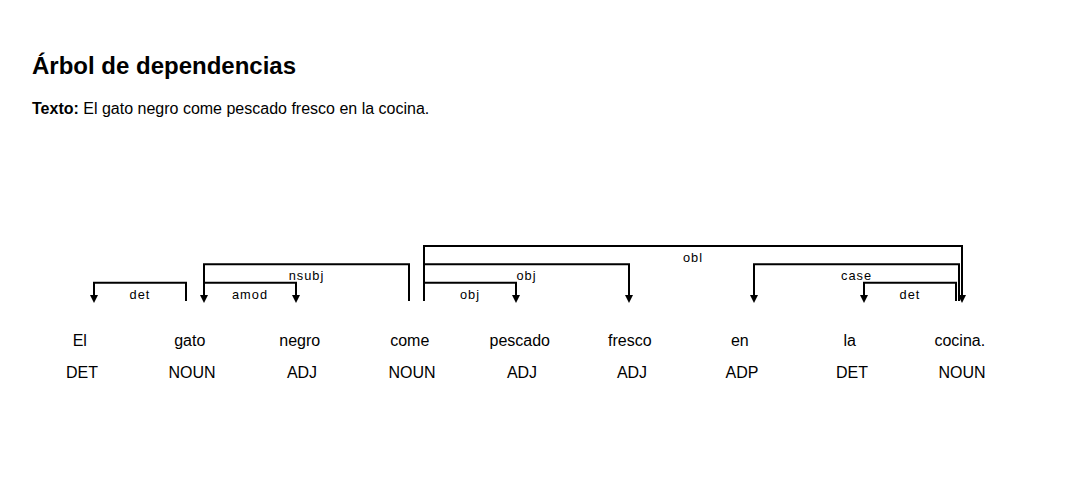
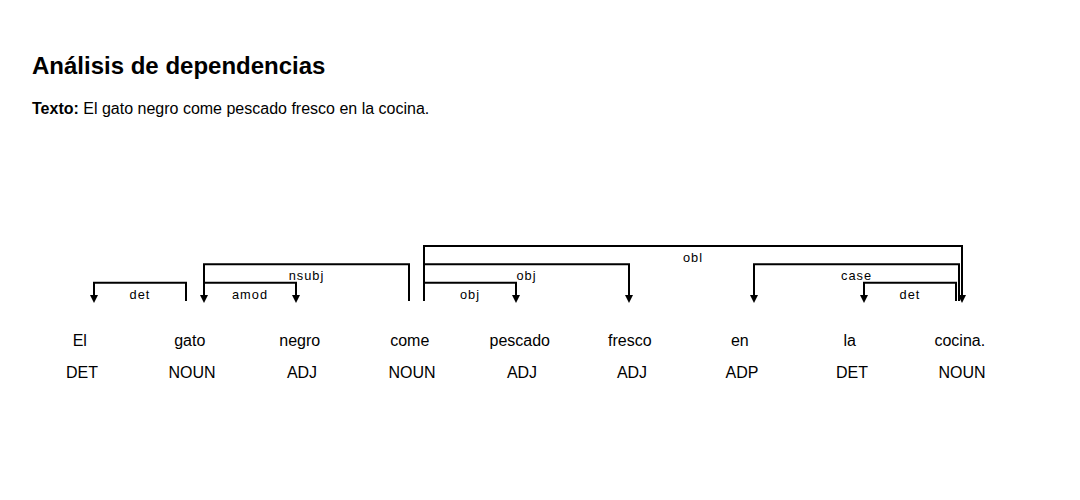
Reescribir README al contrato nuevo: rutas, estructura de carpetas, declaración de IA y capturas regeneradas

Changed region(s): [[0.0306, 0.09, 0.3056, 0.15]]

diff --git a/README.md b/README.md
@@ -1,10 +1,8 @@
-# NLP Pipeline API
+# NLP Text Processing API
 
 ![CI](https://github.com/Julian-Rincon/nlp-pipeline-api/actions/workflows/ci.yml/badge.svg)
 
-API de procesamiento de lenguaje natural construida con **spaCy** y **FastAPI**, desplegada de dos formas distintas en **AWS** sobre exactamente el mismo pipeline: preprocesamiento → extracción de características → análisis (POS/NER/dependencias) → salida.
-
-Proyecto académico — Procesamiento de Lenguaje Natural (PLN), Universidad Sergio Arboleda.
+Microservicio de procesamiento de lenguaje natural con **spaCy** y **FastAPI**, desplegado en dos arquitecturas de AWS Academy que exponen exactamente el mismo comportamiento funcional. Implementa el contrato definido en la guía **"Procesamiento de texto con spaCy y AWS"** (Laboratorio I - 2026 S02, PLN, Universidad Sergio Arboleda).
 
 ## Integrantes
 
@@ -20,84 +18,95 @@ Proyecto académico — Procesamiento de Lenguaje Natural (PLN), Universidad Ser
 | **EC2 / Cloud9** | `http://<ip-actual>:8000` — ver [STATUS.md](STATUS.md) para la IP vigente | `http://<ip-actual>:8000/docs` |
 | **Lambda + API Gateway** | `https://u04py63z34.execute-api.us-east-1.amazonaws.com` | [/docs](https://u04py63z34.execute-api.us-east-1.amazonaws.com/docs) |
 
-> La instancia EC2 corre en una cuenta de AWS Academy Learner Lab: al reiniciarse la sesión (límite de 4h de Academy) la IP pública cambia porque **a propósito no usamos IP elástica** — costaría dinero del cupo mientras la instancia está apagada. En su lugar, la instancia se auto-reporta: al arrancar, un servicio systemd (`report-ip.service`, ver [`scripts/`](scripts/)) detecta su IP vía metadata (gratis) y actualiza [STATUS.md](STATUS.md) con un push automático a este repo. La URL de Lambda es estable y siempre funciona.
+> La instancia EC2 corre en una cuenta de AWS Academy Learner Lab: al reiniciarse la sesión (límite de 4h de Academy) la IP pública cambia porque **a propósito no usamos IP elástica** — costaría dinero del cupo mientras la instancia está apagada. En su lugar, la instancia se auto-reporta: al arrancar, un servicio systemd (`ec2/report-ip.service`) detecta su IP vía metadata (gratis) y actualiza [STATUS.md](STATUS.md) con un push automático a este repo. La URL de Lambda es estable y siempre funciona.
+>
+> **Nota sobre Lambda Function URL:** la guía pide exponer Lambda mediante Function URL. Lo intentamos a fondo — función nueva, permiso público `lambda:InvokeFunctionUrl` con `principal:"*"`, esperando hasta 2 minutos de propagación — y siempre devuelve `403 Forbidden`, incluso con la configuración textualmente correcta. Es un guardrail de la cuenta de AWS Academy que bloquea invocación anónima de Function URLs (no un error nuestro de configuración). Como alternativa **funcionalmente equivalente** — misma exposición HTTP pública, sin autenticación, sobre la misma función Lambda — usamos **API Gateway (HTTP API)** con integración proxy directa.
 
 ![Swagger UI de la API](assets/swagger_docs.png)
 
 ## Arquitectura
 
-Un único módulo de pipeline (`nlp_pipeline.py`) y una única app FastAPI (`main.py`) se despliegan de dos formas:
+Un único módulo de pipeline (`nlp_pipeline.py`) y una única app FastAPI (`main.py`) contienen toda la lógica funcional, compartida entre los dos despliegues. Cada arquitectura tiene su propia carpeta con únicamente los archivos específicos de infraestructura:
 
-| Despliegue | Cómo corre | Entrypoint |
-|---|---|---|
-| **EC2 / AWS Cloud9** | Servicio systemd persistente, `uvicorn` sirviendo la app directamente | `main:app` vía `uvicorn` |
-| **AWS Lambda** | Imagen de contenedor en ECR, invocada a través de API Gateway (HTTP API) | `lambda_handler.py` (adapta la app con [Mangum](https://mangum.io/)) |
-
-Ambos despliegues ejecutan el **mismo código de pipeline** — no hay dos implementaciones divergentes.
-
-## Endpoints
-
-| Método | Ruta | Qué hace |
-|---|---|---|
-| GET | `/health` | Chequeo de salud |
-| GET | `/` | Info de la API e integrantes |
-| POST | `/processed` | Preprocessing: minúsculas, sin stopwords/puntuación, verbos lematizados |
-| POST | `/dependency` | Árbol de dependencias sintácticas, visualizable en HTML (`?format=json` para JSON) — [ejemplo abajo](#dependency-y-ner-en-vivo) |
-| POST | `/ner` | Entidades nombradas resaltadas en HTML (`?format=json` para lista estructurada) — [ejemplo abajo](#dependency-y-ner-en-vivo) |
-| POST | `/full` | Pipeline completo en un solo llamado: tokens + POS + lemma + entidades + texto procesado |
-| POST | `/encoding` | Feature extraction: One-hot, Bag-of-Words o TF-IDF (scikit-learn) sobre un corpus |
-
-Body para `/processed`, `/dependency`, `/ner`, `/full`:
-```json
-{"text": "El gato come pescado en la cocina."}
+```
+aws_apis/
+  nlp_pipeline.py   # lógica común: limpieza, POS, NER, dependencias, vectorización
+  main.py           # app FastAPI compartida con las 5 rutas del contrato
+  requirements.txt
+  ec2/              # específico del despliegue EC2/Cloud9
+    nlp-api.service       # unidad systemd que sirve main:app con uvicorn
+    report-ip.service     # unidad systemd que auto-reporta la IP al arrancar
+    report_ip.sh
+  lambda/           # específico del despliegue Lambda
+    Dockerfile             # build context = raíz del repo
+    lambda_handler.py      # adapta la app FastAPI con Mangum
+  tests/            # suite de regresión (pytest)
+  qa_test.py, stress_test.py   # QA y capacidad/rendimiento contra una URL en vivo
 ```
 
-Body para `/encoding`:
-```json
-{"texts": ["texto uno", "texto dos"], "method": "tfidf"}
-```
-`method` acepta `bow` (default), `tfidf` u `onehot`.
+| Despliegue | Cómo corre |
+|---|---|
+| **EC2 / AWS Cloud9** | Servicio systemd persistente (`ec2/nlp-api.service`), `uvicorn main:app` |
+| **AWS Lambda** | Imagen de contenedor (`lambda/Dockerfile`) en ECR, invocada vía API Gateway; `lambda/lambda_handler.py` adapta la misma app FastAPI con [Mangum](https://mangum.io/) |
+
+## Endpoints (contrato de la guía, sección 8)
+
+| Método | Ruta | Entrada | Salida |
+|---|---|---|---|
+| POST | `/api/v1/clean` | `{"text": string \| string[]}` | `{"cleaned_text": string[]}` |
+| POST | `/api/v1/pos` | `{"text": string \| string[]}` | `{"results": [{"tokens": [{"text","pos","lemma"}]}]}` |
+| POST | `/api/v1/ner` | `{"text": string \| string[]}` | `{"results": [{"entities": [{"text","label","start","end"}]}]}` |
+| POST | `/api/v1/visualize/dep` | `{"text": string}` (un único documento, **no acepta lote**) | `text/html` con SVG de displaCy embebido |
+| POST | `/api/v1/vectorize` | `{"documents": string[]}` (mínimo 2) | `{"vocabulary","one_hot","bag_of_words","tf_idf"}` |
+
+`text`/`documents` aceptan un string único o una lista — la posición `i` del resultado corresponde siempre al documento `i` de entrada. Todos los endpoints JSON reciben `Content-Type: application/json`. `/health` es auxiliar (no evaluado).
+
+### Reglas de vectorización
+
+- `vocabulary`: términos tras la limpieza, en **orden lexicográfico ascendente**.
+- `bag_of_words[i][j]`: frecuencia absoluta del término `j` en el documento `i`.
+- `one_hot[i]`: **una matriz por documento** — una fila por cada ocurrencia retenida (no una fila por documento), cada fila con un único `1` en la posición del término.
+- `tf_idf[i][j] = tf(t,d) × idf(t)`, con `idf(t) = ln((|D|+1)/(n_t+1)) + 1`, **sin normalizar**, redondeado a 4 decimales.
 
 ### Ejemplo real (contra la API en Lambda)
 
 ```bash
-$ curl -X POST https://u04py63z34.execute-api.us-east-1.amazonaws.com/full \
+$ curl -X POST https://u04py63z34.execute-api.us-east-1.amazonaws.com/api/v1/vectorize \
     -H "Content-Type: application/json" \
-    -d '{"text":"Apple está buscando comprar una startup en Colombia por mil millones de dólares."}'
+    -d '{"documents":["Mi gato, su gato y nuestro gato comen pescado","Juan comió en Bogotá","El caballo come muy rápido"]}'
 
-{"original":"Apple está buscando comprar una startup en Colombia por mil millones de dólares.",
- "processed":"apple buscar comprar startup colombia mil millones dólares",
- "tokens":[{"text":"Apple","lemma":"Apple","pos":"PROPN",...}, ...],
- "entities":[{"text":"Apple","label":"ORG","start":0,"end":5},
-             {"text":"Colombia","label":"LOC","start":43,"end":51}]}
+{"vocabulary":["bogotá","caballo","come","comen","comió","gato","juan","pescado","rápido"],
+ "bag_of_words":[[0,0,0,1,0,3,0,1,0], ...],
+ "tf_idf":[[0.0,0.0,0.0,1.6931,0.0,5.0794,0.0,1.6931,0.0], ...],
+ "one_hot":[[[0,0,0,0,0,1,0,0,0], ...], ...]}
 ```
+`TF-IDF(gato, d1) = 3 × (ln(4/2)+1) = 5.0794` — verificado a mano contra la fórmula exacta de la guía.
 
-### `/dependency` y `/ner` en vivo
+### `/api/v1/visualize/dep` y `/api/v1/ner` en vivo
 
-Salida real de `POST /dependency` con `{"text": "El gato negro come pescado fresco en la cocina."}`:
+Salida real de `POST /api/v1/visualize/dep`:
 
 ![Árbol de dependencias](assets/dependency_tree.png)
 
-Salida real de `POST /ner` con `{"text": "Apple está buscando comprar una startup en Bogotá, Colombia..."}`:
+`POST /api/v1/ner` devuelve JSON (no HTML); esta es una visualización de esas mismas entidades para referencia:
 
-![Entidades nombradas resaltadas](assets/ner_entities.png)
+![Entidades nombradas](assets/ner_entities.png)
 
 ## Límites y decisiones de diseño
 
-- Solo se sirve `es_core_news_sm` — el resto del pipeline (limpieza de repeticiones adversariales, límites de tamaño de texto/corpus) se probó bajo carga y casos adversariales antes de desplegar.
+- Solo se sirve `es_core_news_sm`. Tres variantes del pipeline (`get_nlp_light`, `get_nlp_ner`, `get_nlp_dep`) excluyen `parser`/`ner` cuando no se necesitan, para no pagar ese costo en cada solicitud — ayuda directo al requisito de rendimiento (≤10s por solicitud).
 - Repeticiones de más de 4 del mismo carácter se colapsan a 3 antes de tokenizar: sin esto, texto adversarial (miles de signos repetidos) vuelve casi cuadrático al tokenizador de spaCy.
-- Máximo 100.000 caracteres por texto y 200 documentos por corpus.
-- CORS abierto (`*`) — es una API pública de solo análisis de texto, sin autenticación ni datos sensibles que proteger.
+- Máximo 100.000 caracteres por texto y 500 documentos por lote (la guía exige soportar al menos 25/10, dejamos margen amplio).
+- La puntuación es su propio token en spaCy incluso pegada sin espacio (`"hola,mundo"` → `["hola", ",", "mundo"]`), así que al filtrarla en la limpieza los términos quedan naturalmente separados — sin riesgo de concatenación. Verificado en `tests/test_api.py`.
+- `/vectorize` está implementado en Python puro (sin scikit-learn): el one-hot por-ocurrencia y el TF-IDF sin normalizar que pide la guía no son lo que scikit-learn entrega por defecto, y evitar esa dependencia también simplificó el build de la imagen Lambda (menos problemas de wheels nativos).
+- CORS abierto (`*`) — es una API pública de solo análisis de texto, sin autenticación ni datos sensibles.
+- Validación estricta y "todo o nada": cualquier campo ausente, `null`, tipo incorrecto, string vacío/solo-espacios, o elemento inválido dentro de un lote rechaza la solicitud completa con 4xx — nunca hay resultados parciales.
 
-## Seguridad — revisión aplicada
+## Uso de inteligencia artificial generativa
 
-- **Sin secretos en el repo**: revisado el historial completo de git, sin credenciales, tokens ni llaves privadas.
-- **Input validation en el borde**: longitud máxima de texto/corpus y allowlist de modelo, todo devuelve 422 controlado (nunca 500) — verificado con `stress_test.py`.
-- **XSS**: el texto del usuario se escapa (`html.escape`) antes de insertarse en las páginas HTML de `/dependency` y `/ner`.
-- **Bucket S3 usado para transferir el build**: bloqueo de acceso público habilitado (default de AWS, verificado explícitamente).
-- **Deploy key de GitHub en la EC2**: de solo escritura, restringida a este único repositorio (no es un token de cuenta).
-- **HTTP sin TLS en la EC2**: aceptado a propósito — es una IP efímera de laboratorio sin dominio propio; la API Lambda (HTTPS real) es el endpoint recomendado para uso externo.
-- **Sin autenticación / sin rate limiting**: aceptado a propósito para el alcance del curso — es una API de solo lectura/análisis de texto sin datos sensibles ni estado persistente.
+Conforme a la sección 6 de la guía: se usó **Claude Code** (Anthropic) durante todo el desarrollo — diseño de la arquitectura, implementación de la API y el pipeline de spaCy, escritura de pruebas, automatización del despliegue en AWS (EC2/Cloud9 y Lambda) y depuración de errores (incluyendo la investigación del bloqueo de Function URL documentada arriba).
+
+**Cómo se verificó:** cada endpoint se probó contra el contrato exacto de la guía con la suite `tests/test_api.py` (pytest, 27 casos incluyendo cada regla de validación), `qa_test.py` (casos límite y adversariales) y `stress_test.py` (capacidad de 25/10 documentos y concurrencia), corridos tanto en local como contra las dos URLs desplegadas en vivo antes de cada entrega. Los valores de TF-IDF se verificaron a mano contra la fórmula de la guía. El equipo revisó el código generado antes de incorporarlo.
 
 ## Correr localmente
 
@@ -116,39 +125,38 @@ pip install pytest httpx
 python -m pytest tests/ -v
 ```
 
-Se ejecutan automáticamente en CI (GitHub Actions) en cada push, junto con la validación del build de la imagen Docker de Lambda.
+Se ejecutan automáticamente en CI (GitHub Actions) en cada push, junto con la validación del build de la imagen Docker de Lambda (`lambda/Dockerfile`).
 
-### Stress test contra las APIs en vivo
+### QA y capacidad contra una URL en vivo
 
 ```bash
+python3 qa_test.py https://u04py63z34.execute-api.us-east-1.amazonaws.com
 python3 stress_test.py https://u04py63z34.execute-api.us-east-1.amazonaws.com
 ```
 
-Cubre: sanidad de los 5 endpoints, 7 casos límite (vacío, emojis, HTML crudo, unicode, mezcla de idiomas, repetición masiva), payloads adversariales (40k caracteres de puntuación repetida, token único de 50k caracteres), límites que deben rechazar con 4xx, y 150 requests concurrentes.
-
-Resultado real de la última corrida:
+`stress_test.py` cubre exactamente los requisitos de la sección 5 de la guía: 25 documentos de ~1000 caracteres a `/clean`, `/pos`, `/ner`; 10 documentos de ~1000 caracteres a `/vectorize`; y 30 solicitudes concurrentes (el mínimo exigido es 5). Resultado real de la última corrida contra Lambda:
 
 ```
-=== EC2/Cloud9 ===
-Completadas: 150/150 en 1.72s (87.5 req/s)
-Éxitos 200: 150/150 | p50=210ms p95=269ms max=304ms
-RESULTADO: TODO OK
+=== 1) Capacidad: 25 documentos de ~1000 caracteres ===
+/api/v1/clean con 25 docs -> 200 en <10s -> t=0.71s
+/api/v1/pos con 25 docs -> 200 en <10s -> t=0.95s
+/api/v1/ner con 25 docs -> 200 en <10s -> t=1.02s
 
-=== Lambda + API Gateway ===
-Completadas: 150/150 en 4.71s (31.9 req/s)
-Éxitos 200: 150/150 | p50=291ms p95=2833ms max=3720ms
+=== 2) Capacidad: 10 documentos de ~1000 caracteres a vectorize ===
+/api/v1/vectorize con 10 docs -> 200 en <10s -> t=0.52s
+
+=== 3) Concurrencia: 30 solicitudes simultáneas ===
+Completadas: 30/30 en 4.13s | p50=360ms p95=2698ms max=3654ms
 RESULTADO: TODO OK
 ```
-(La latencia p95 más alta en Lambda es por cold starts de contenedores nuevos bajo concurrencia — comportamiento esperado, no un error.)
 
 ## Despliegue en AWS
 
-**EC2/Cloud9** — corre como servicio `systemd` (`scripts/nlp-api.service`), reinicio automático ante fallos y arranque automático al iniciar la instancia. El auto-reporte de IP corre como `scripts/report-ip.service`.
-
-**Lambda** — imagen construida con el `Dockerfile` de este repo (`public.ecr.aws/lambda/python:3.11` base), subida a ECR y desplegada como función Lambda detrás de API Gateway (HTTP API, ruta `$default`, integración proxy).
-
 ```bash
-docker build -t nlp-lambda-api .
+# Lambda — build context es la raíz del repo
+docker build -f lambda/Dockerfile -t nlp-lambda-api .
 docker tag nlp-lambda-api:latest <cuenta>.dkr.ecr.<region>.amazonaws.com/nlp-lambda-api:latest
 docker push <cuenta>.dkr.ecr.<region>.amazonaws.com/nlp-lambda-api:latest
 ```
+
+EC2/Cloud9: `git pull`, `pip install -r requirements.txt`, copiar `ec2/*.service` a `/etc/systemd/system/`, `systemctl restart nlp-api`.
